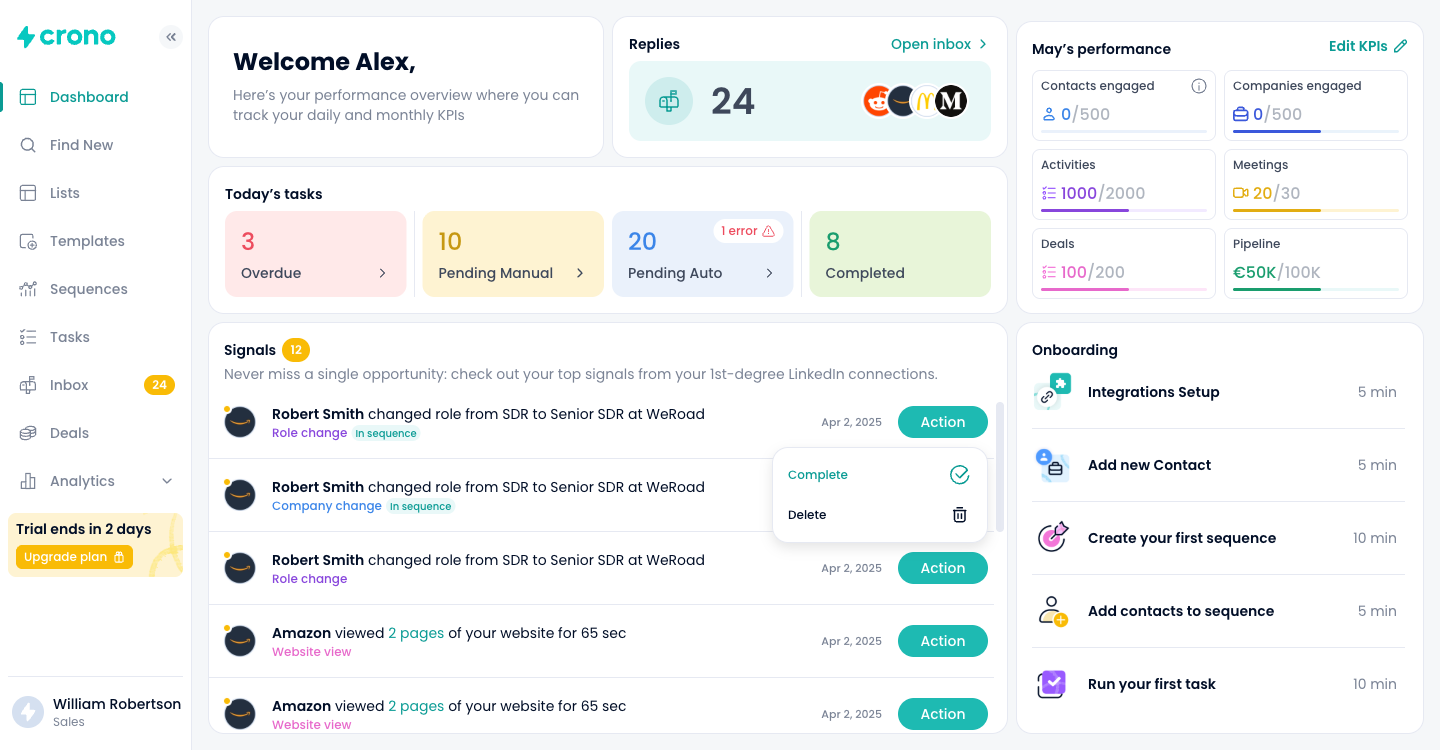
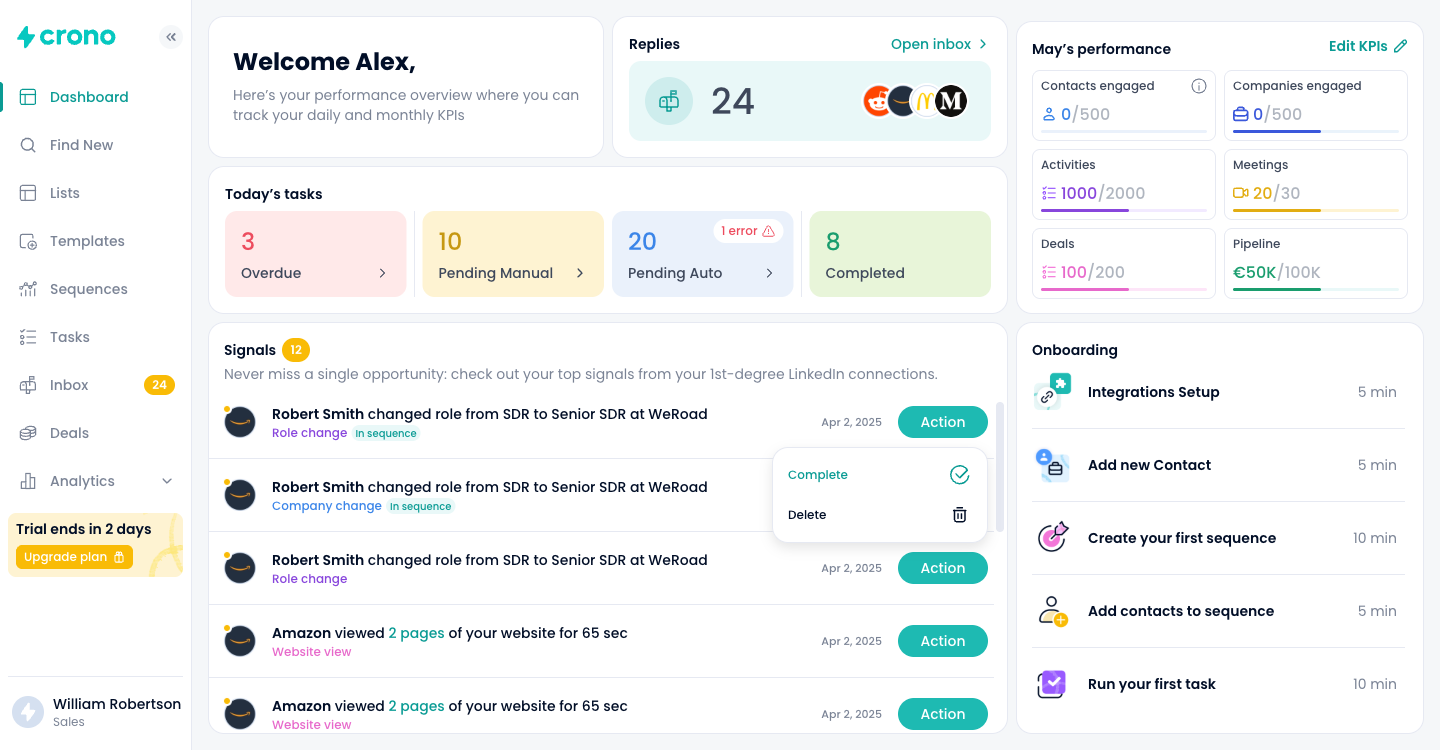
docs: stack the Figma export against the deployed render
The README claimed pixel fidelity and asked to be taken on trust. This
makes it checkable: the export on top, the app underneath, both at
1440x750.

The source is a @3x Figma export reduced by an exact 3x3 box average —
each pixel the mean of nine, since 4320x2250 is a clean 3x of the frame
— so neither half has been fitted to the other.

The two state screenshots are recaptured from a local production build
rather than the deploy, which does not carry the font-weight fix yet.

diff --git a/README.md b/README.md
@@ -104,3 +104,9 @@ Nothing in this implementation is estimated by eye. Colours are sampled from the
 font sizes solved from measured ink widths, and corner radii verified by diffing rendered
 corner profiles against it. [`docs/design-notes.md`](docs/design-notes.md) records every
 value and the method behind it.
+
+### Side by side
+
+The Figma export on top, the deployed app underneath, both 1440x750.
+
+![The Figma export above, the deployed app below, both at 1440x750](docs/screenshots/fidelity.png)
